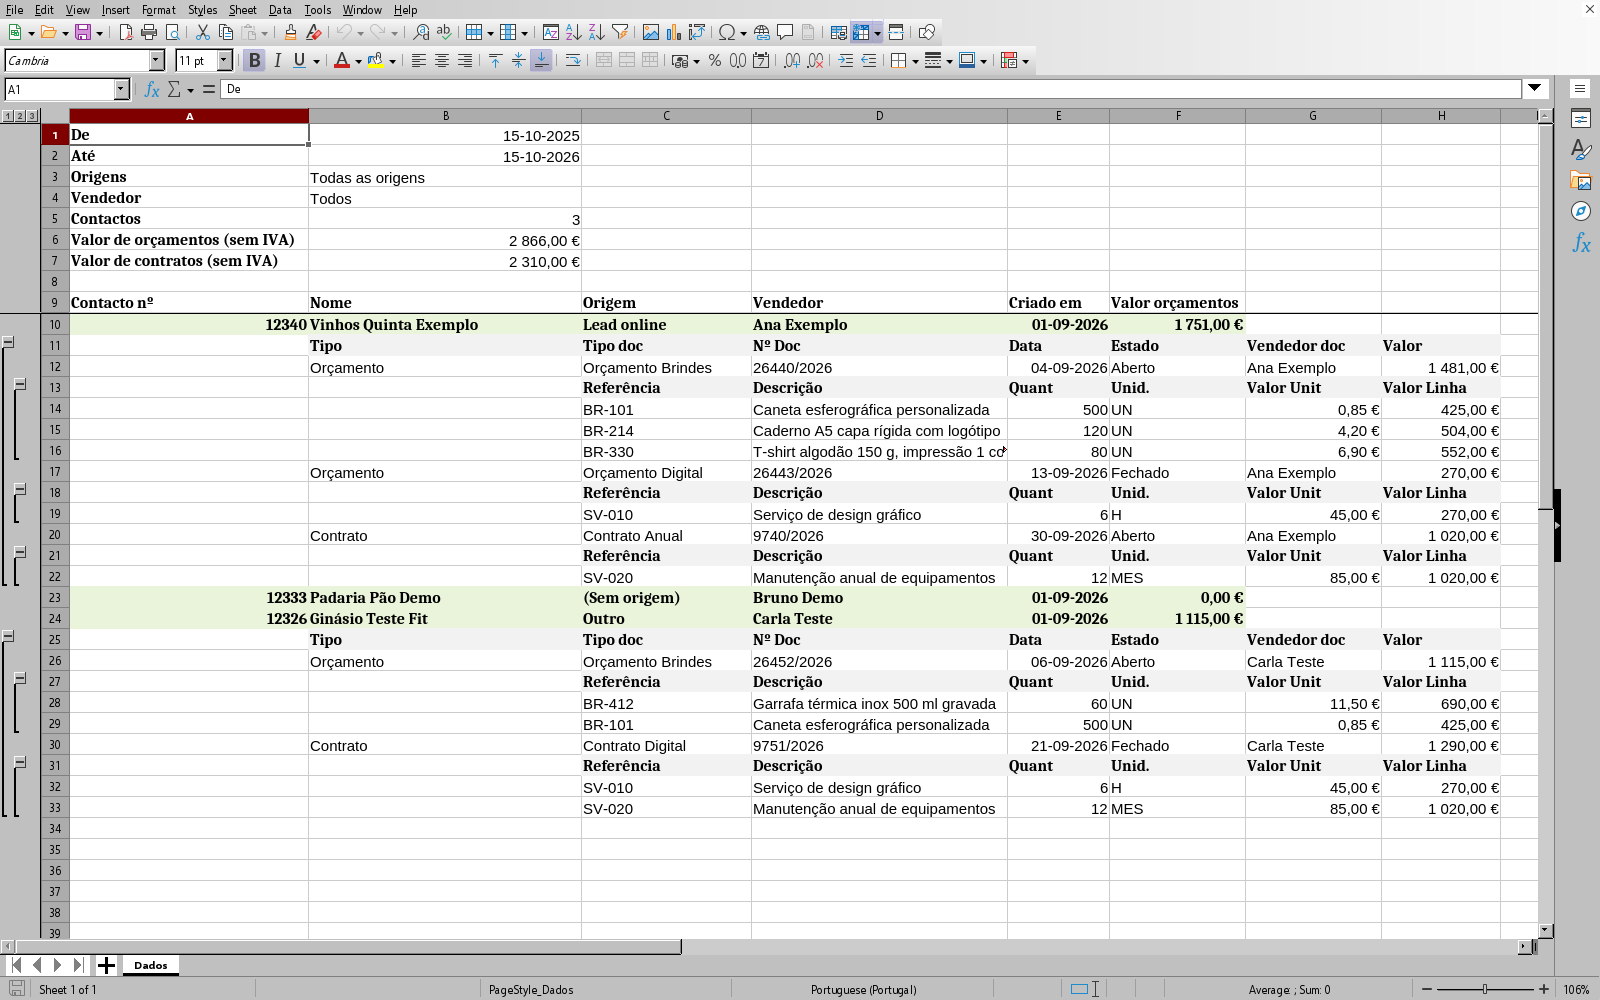
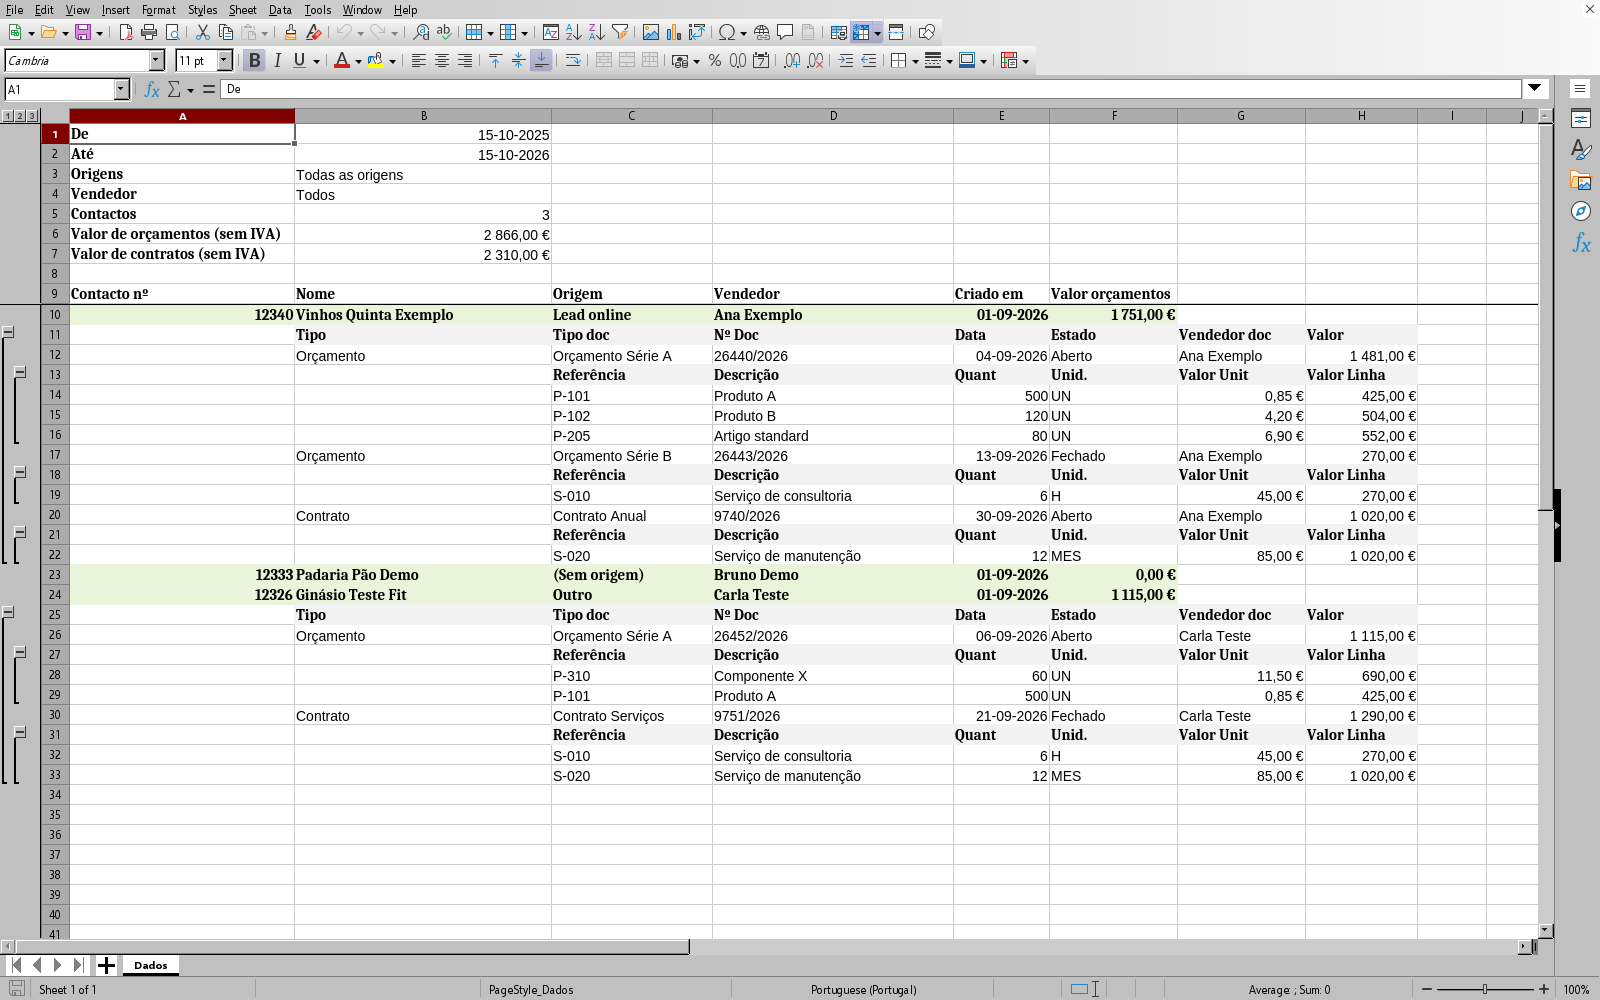
FIL-8: capturas Contacts Report com nomes neutros

Changed region(s): [[0.0, 0.124, 0.9688, 0.93], [0.9375, 0.62, 0.9688, 0.651]]

diff --git a/ASSETS.md b/ASSETS.md
@@ -44,9 +44,9 @@ Filipe's own captures of his app, taken in its demo mode with fictitious data (n
 
 | File | Master (PNG, SHA-256) | Size | Notes |
 | --- | --- | --- | --- |
-| `public/images/projects/contacts-report/contacts-report-dashboard.webp` | `contacts-report-dashboard.png` (`159b1f20…88650ebde`) | 1600×1000, 56,550 bytes | Dashboard: filters and the five summary cards. Filipe's own work, fake data |
-| `public/images/projects/contacts-report/contacts-report-contact-detail.webp` | `contacts-report-contact-detail.png` (`6bdf4813…c0d20ed6cd`) | 1600×1000, 61,794 bytes | Expanded contact with its quotes and contracts. Filipe's own work, fake data |
-| `public/images/projects/contacts-report/contacts-report-excel-groups.webp` | `contacts-report-excel-groups.png` (`15cac0b1…ae253a08`) | 1600×1000, 119,390 bytes | Excel export in LibreOffice Calc with outline groups. Filipe's own work, fake data |
+| `public/images/projects/contacts-report/contacts-report-dashboard.webp` | `contacts-report-dashboard.png` (`177d8a36…fdd64935`) | 1600×1000, 56,670 bytes | Dashboard: filters and the five summary cards. Filipe's own work, fake data with neutral product names (regenerated 2026-10-15) |
+| `public/images/projects/contacts-report/contacts-report-contact-detail.webp` | `contacts-report-contact-detail.png` (`1a4e2a4b…37333429`) | 1600×1000, 61,946 bytes | Expanded contact with its quotes (Orçamento Série A/B) and contracts (Contrato Anual/Serviços). Filipe's own work, fake data with neutral product names (regenerated 2026-10-15) |
+| `public/images/projects/contacts-report/contacts-report-excel-groups.webp` | `contacts-report-excel-groups.png` (`4bff4206…d6743e03`) | 1600×1000, 106,232 bytes | Excel export in LibreOffice Calc with outline groups; line items are Produto A/B, Artigo standard, Componente X, Serviço de consultoria/manutenção. Filipe's own work, fake data with neutral product names (regenerated 2026-10-15) |
 
 ## Diagram covers
 
